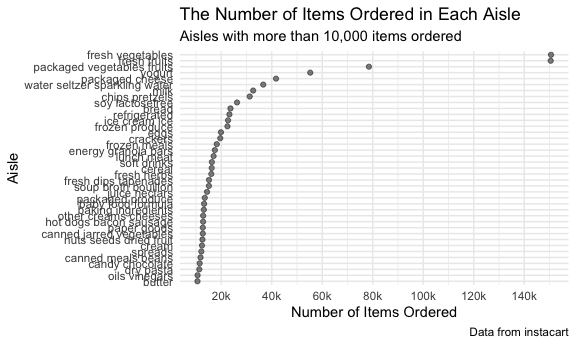
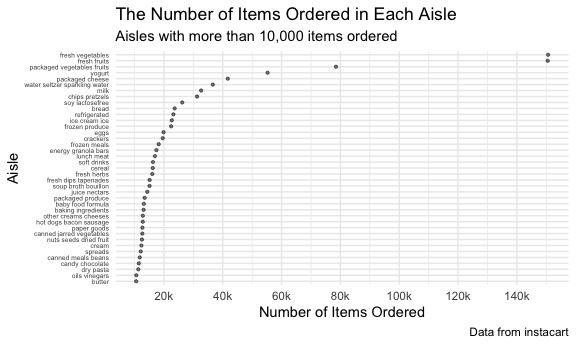
Made some changes and still have question about Problem 2-3.

diff --git a/p8105_hw3_wq2161.md b/p8105_hw3_wq2161.md
@@ -84,7 +84,7 @@ aisle_num %>%
   filter(n_aisle > 10000) %>%
   mutate(aisle = fct_reorder(aisle, n_aisle)) %>%
   ggplot(aes(x = n_aisle, y = aisle)) +
-  geom_point(alpha = .5) +
+  geom_point(alpha = .5, size = .8) +
   labs(
     title = "The Number of Items Ordered in Each Aisle",
     subtitle = "Aisles with more than 10,000 items ordered",
@@ -93,6 +93,7 @@ aisle_num %>%
     caption = "Data from instacart"
   ) +
   theme_minimal() +
+  theme(axis.text.y = element_text(size = 5)) +
   scale_x_continuous(
     breaks = c(20000, 40000, 60000, 80000, 100000, 120000, 140000),
     labels = c("20k", "40k", "60k", "80k", "100k", "120k", "140k")
@@ -263,9 +264,10 @@ state_2010
     ## 13 TX            16
     ## 14 WA            10
 
-In 2002, there were 6 states which were observed at 7 or more locations.
-In 2010, there were 14 states which were observed at 7 or more
-locations.
+In 2002, there were 6 states which were observed at 7 or more locations,
+which were CT, FL, MA, NC, NJ, PA. In 2010, there were 14 states which
+were observed at 7 or more locations, which were CA, CO, FL, MA, MD, NC,
+NE, NJ, NY, OH, PA, SC, TX, WA.
 
 -   Construct a dataset that is limited to Excellent responses, and
     contains, year, state, and a variable that averages the data\_value
@@ -351,22 +353,22 @@ NY_df
 
 ``` r
 NY_df %>%
-  ggplot(aes(x = data_value, y = location, color = response)) +
-  geom_point(alpha = 0.5) +
+  ggplot(aes(x = data_value, color = year)) +
+  geom_density(alpha = 0.5) +
   facet_grid(. ~ year) +
   labs(
-    title = "Locations vs. Data_Value",
-    subtitle = "For Responses in NY in Year 2006 and 2010",
-    x = "Response",
-    y = "Data Value",
+    title = "The Distribution of Data Value",
+    subtitle = "For All Responses in NY in Year 2006 and 2010",
+    x = "Data Value",
+    y = "Density of Data Value",
     caption = "Data from brfss_smart2010 dataset"
   ) +
-  theme(legend.position = "bottom")
+  theme(legend.position = "none")
 ```
 
 <img src="p8105_hw3_wq2161_files/figure-gfm/NY_df-1.png" width="90%" />
 
-Comment
+(Comment)
 
 ## Problem 3
 
@@ -384,12 +386,14 @@ accel_data = accel_data %>%
     names_to = "activity_min",
     values_to = "data_value"
   ) %>%
+  separate(activity_min, into = c("activity", "minute")) %>%
+  select(-activity) %>%
   mutate(
     week = as.numeric(week),
     day_id = as.numeric(day_id),
-    day = factor(day, levels = c("Sunday", "Monday", "Tuesday", "Wednesday", "Thursday", "Friday", "Saturday")),
+    day = factor(day, levels = c("Monday", "Tuesday", "Wednesday", "Thursday", "Friday", "Saturday", "Sunday")),
     day_end = as.character(day_end),
-    activity_min = as.character(activity_min),
+    minute = as.numeric(minute),
     data_value = as.numeric(data_value)
   )
 
@@ -397,27 +401,29 @@ accel_data
 ```
 
     ## # A tibble: 50,400 × 6
-    ##     week day_id day    day_end activity_min data_value
-    ##    <dbl>  <dbl> <fct>  <chr>   <chr>             <dbl>
-    ##  1     1      1 Friday weekday activity_1         88.4
-    ##  2     1      1 Friday weekday activity_2         82.2
-    ##  3     1      1 Friday weekday activity_3         64.4
-    ##  4     1      1 Friday weekday activity_4         70.0
-    ##  5     1      1 Friday weekday activity_5         75.0
-    ##  6     1      1 Friday weekday activity_6         66.3
-    ##  7     1      1 Friday weekday activity_7         53.8
-    ##  8     1      1 Friday weekday activity_8         47.8
-    ##  9     1      1 Friday weekday activity_9         55.5
-    ## 10     1      1 Friday weekday activity_10        43.0
+    ##     week day_id day    day_end minute data_value
+    ##    <dbl>  <dbl> <fct>  <chr>    <dbl>      <dbl>
+    ##  1     1      1 Friday weekday      1       88.4
+    ##  2     1      1 Friday weekday      2       82.2
+    ##  3     1      1 Friday weekday      3       64.4
+    ##  4     1      1 Friday weekday      4       70.0
+    ##  5     1      1 Friday weekday      5       75.0
+    ##  6     1      1 Friday weekday      6       66.3
+    ##  7     1      1 Friday weekday      7       53.8
+    ##  8     1      1 Friday weekday      8       47.8
+    ##  9     1      1 Friday weekday      9       55.5
+    ## 10     1      1 Friday weekday     10       43.0
     ## # … with 50,390 more rows
 
 The dataset is a record of 5 weeks of accelerometer data collected on a
 63 year-old male with BMI 25, who was admitted to the Advanced Cardiac
 Care Center of Columbia University Medical Center and diagnosed with
 congestive heart failure (CHF). The dataset includes 6 variables, which
-are week, day\_id, day, day\_end, activity\_min, data\_value, and 50400
-observations. Specifically, the activity\_min is the activity counts for
-each minute of a 24-hour day starting at midnight.
+are week, day\_id, day, day\_end, minute, data\_value, and 50400
+observations. The first 5 variables record the specific time of an
+activity. For example, the first observation is on the 1st day of the
+1st week, which is a Friday (a weekday), at 0:01 at midnight. The
+variable data\_value record the data of that activity.
 
 -   Aggregate across minutes to create a total activity variable for
     each day, and create a table showing these totals.
@@ -435,13 +441,13 @@ accel_total %>%
   knitr::kable()
 ```
 
-| week | Sunday |    Monday |  Tuesday | Wednesday | Thursday |   Friday | Saturday |
-|-----:|-------:|----------:|---------:|----------:|---------:|---------:|---------:|
-|    1 | 631105 |  78828.07 | 307094.2 |    340115 | 355923.6 | 480542.6 |   376254 |
-|    2 | 422018 | 295431.00 | 423245.0 |    440962 | 474048.0 | 568839.0 |   607175 |
-|    3 | 467052 | 685910.00 | 381507.0 |    468869 | 371230.0 | 467420.0 |   382928 |
-|    4 | 260617 | 409450.00 | 319568.0 |    434460 | 340291.0 | 154049.0 |     1440 |
-|    5 | 138421 | 389080.00 | 367824.0 |    445366 | 549658.0 | 620860.0 |     1440 |
+| week |    Monday |  Tuesday | Wednesday | Thursday |   Friday | Saturday | Sunday |
+|-----:|----------:|---------:|----------:|---------:|---------:|---------:|-------:|
+|    1 |  78828.07 | 307094.2 |    340115 | 355923.6 | 480542.6 |   376254 | 631105 |
+|    2 | 295431.00 | 423245.0 |    440962 | 474048.0 | 568839.0 |   607175 | 422018 |
+|    3 | 685910.00 | 381507.0 |    468869 | 371230.0 | 467420.0 |   382928 | 467052 |
+|    4 | 409450.00 | 319568.0 |    434460 | 340291.0 | 154049.0 |     1440 | 260617 |
+|    5 | 389080.00 | 367824.0 |    445366 | 549658.0 | 620860.0 |     1440 | 138421 |
 
 It doesn’t show an apparent trend for the data, but generally, the data
 on weekend is less than weekday, especially for week 3 to 5.
@@ -450,14 +456,28 @@ on weekend is less than weekday, especially for week 3 to 5.
     courses for each day and use color to indicate day of the week.
 
 ``` r
-accel_plot_df = accel_data %>%
-  mutate(
-    day = factor(day, levels = c("Sunday", "Monday", "Tuesday", "Wednesday", "Thursday", "Friday", "Saturday"))
-  )
-
-accel_plot_df %>%
-  ggplot(aes(x = day_id, y = data_value, color = day)) +
-  geom_point(alpha = 0.5)
+accel_data %>%
+  ggplot(aes(x = minute, y = data_value, color = day)) +
+  geom_point(alpha = 0.3, size = 0.5) +
+  geom_smooth(se = FALSE, size = 0.7) + 
+  labs(
+    title = "The Data Value of the 24-Hour Activity Time Courses",
+    subtitle = "For Each Day of the Week",
+    x = "Activity Time",
+    y = "Data Value",
+    caption = "Data from Accel_data dataset"
+  ) +
+  scale_x_continuous(
+    breaks = c(0, 360, 720, 1080, 1440),
+    labels = c("12AM", "6AM", "12PM", "6PM", "12AM")
+  ) +
+  theme_minimal() +
+  scale_color_viridis_d()
 ```
 
-<img src="p8105_hw3_wq2161_files/figure-gfm/unnamed-chunk-1-1.png" width="90%" />
+<img src="p8105_hw3_wq2161_files/figure-gfm/24_hour_plot-1.png" width="90%" />
+
+Based on the plot, the activity between 12AM and 6AM was low and stable,
+and it was increasing by time in a low pace for all the seven days in
+the week. The activity after 6AM are higher and different between days,
+especially for Friday to Sunday and the other four days.
